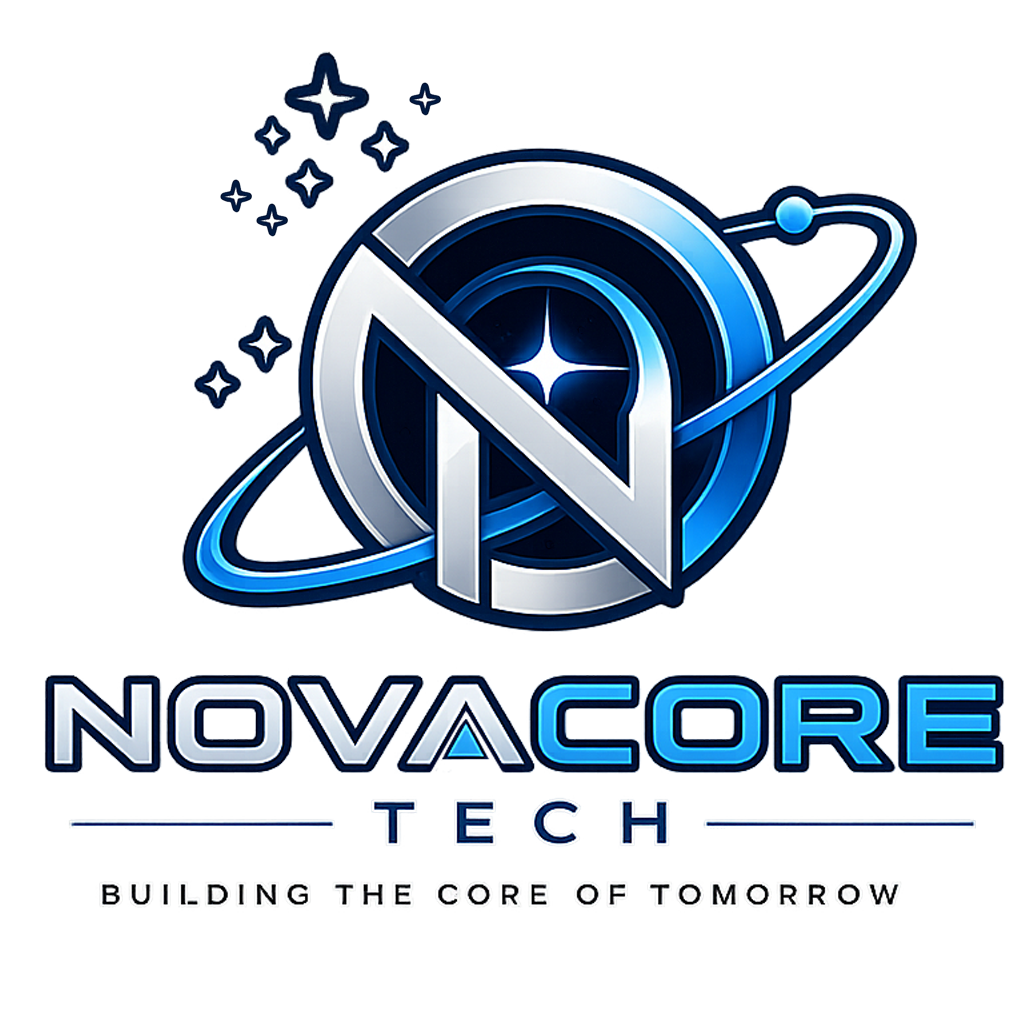
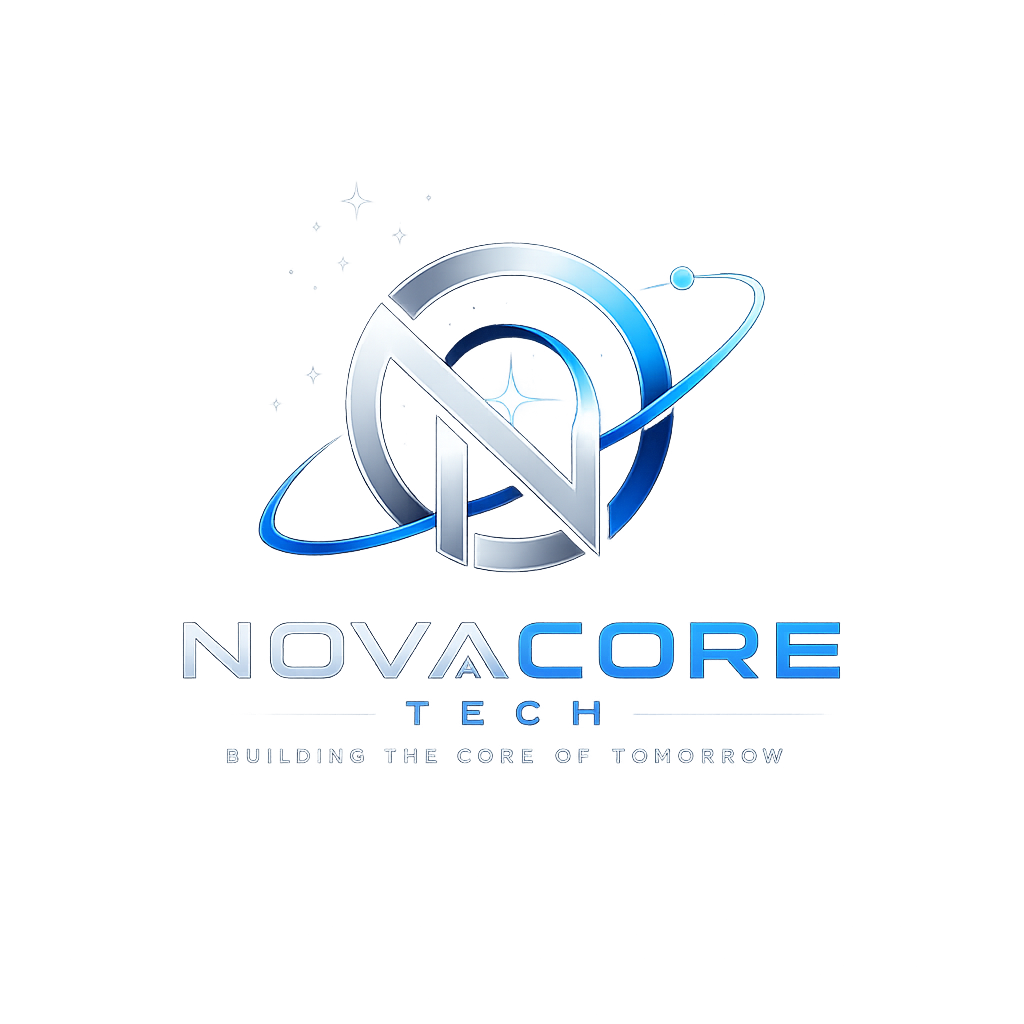
rename the image

Changed region(s): [[0.0312, 0.0312, 1.0, 0.9062], [0.25, 0.7812, 0.4062, 0.9062], [0.0938, 0.8438, 0.2188, 0.9062]]

diff --git a/lib/views/login_page.dart b/lib/views/login_page.dart
@@ -174,7 +174,7 @@ class _LoginPageState extends State<LoginPage> {
                   ),
                   const SizedBox(height: 24),
                   Image.asset(
-                    'lib/assets/image/2.png',
+                    'lib/assets/image/NovaCore.png',
                     width: 150,
                     fit: BoxFit.contain,
                   ),